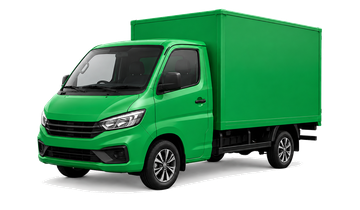
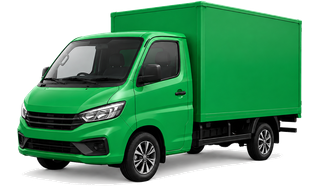
fix(customer-app): toifa rasmlari va karta joylashuvi
Qurilmadagi skrinshotlardan uchta nuqson aniqlandi.

1. standart.png foni SHAFFOF EMAS edi — unda rgb(229,245,235) qotib
   qolgan, bu tanlangan kartaning yashil foniga deyarli teng. Shuning
   uchun tanlangan holatda ko'rinmay, tanlanmaganda oq karta ustida
   yashil to'rtburchak bo'lib qolardi. 129 600 pikseldan atigi 27 tasi
   shaffof edi; endi fon olib tashlandi (91 330 piksel).

2. Mashinalar kichik ko'rinardi: rasmda mazmun kvadrat maydonning
   standartda 46%, komfortda 44% bo'yini egallardi (yuk mashinasida 89%).
   `contain` butun balandlikni 42 dp ga siqadi, mashina esa shuning
   yarmi — ya'ni ~19 dp. Uchalasi ham mazmun chegarasiga qirqilib, bir
   xil nisbatga (~1.73) shaffof chekka bilan keltirildi; endi ular teng
   kattalikda ko'rinadi.

3. Narx kartadan TASHQARIDA qolardi: 77 dp balandlikka 6+42+18+13 = 85 dp
   sig'maydi. Karta 84 dp ga o'tdi, qator balandliklari (`lineHeight`)
   aniq berildi — usiz qurilmaga qarab o'zgarib, mazmun yana chiqib
   ketardi.

Bonus: "Uy"/"Ish" chiplari endi teng enda (`alignItems: stretch`) —
avval chap chekka tishli ko'rinardi.

Rasmlar Pillow'siz, faqat zlib bilan qayta yozildi — foydalanuvchi
muhitiga paket qo'shilmadi.

diff --git a/apps/customer-app/src/CategoryCard.tsx b/apps/customer-app/src/CategoryCard.tsx
@@ -1,5 +1,5 @@
 import { Image, ImageSourcePropType, Text, TouchableOpacity, View } from 'react-native';
-import { C, F, L, SP, elev } from './theme';
+import { C, F, L, elev } from './theme';
 
 /**
  * Toifa kartasi — rasm + nom + boshlang'ich narx (maket: Group 3/9/11).
@@ -35,7 +35,7 @@ export function CategoryCard({
           borderWidth: 1,
           borderColor: selected ? C.primary : C.border,
           backgroundColor: selected ? C.primarySoft : C.bg,
-          paddingTop: 6,
+          paddingTop: 5,
           paddingHorizontal: 4,
           alignItems: 'center',
           // Tanlangan karta bir oz ko'tariladi — soya bilan birga u
@@ -60,13 +60,24 @@ export function CategoryCard({
           resizeMode="contain"
         />
       </View>
+      {/* `lineHeight` ATAYLAB aniq berilgan: usiz qator balandligi qurilmadan
+          qurilmaga o'zgarib, mazmun karta chegarasidan chiqib ketardi. */}
       <Text
         numberOfLines={1}
-        style={{ color: C.text, fontSize: F.body, fontWeight: '700', marginTop: SP.xs / 2 }}
+        style={{
+          color: C.text,
+          fontSize: F.label,
+          lineHeight: 18,
+          fontWeight: '700',
+          marginTop: 1,
+        }}
       >
         {title}
       </Text>
-      <Text numberOfLines={1} style={{ color: C.muted, fontSize: F.tiny, marginTop: 1 }}>
+      <Text
+        numberOfLines={1}
+        style={{ color: C.muted, fontSize: F.tiny, lineHeight: 13 }}
+      >
         {price}
       </Text>
     </TouchableOpacity>

diff --git a/apps/customer-app/src/theme.ts b/apps/customer-app/src/theme.ts
@@ -119,8 +119,12 @@ export const L = {
   /** Pastki panel. Maketda radius chapda 70, o'ngda 87 edi — qiyshiq; tenglandi. */
   sheetRadius: R.xl,
   sheetPad: 12,
-  /** Toifa kartasi — 109x77 dp (327x231). */
-  card: { height: 77, radius: R.card, image: { w: 73, h: 42 } },
+  /**
+   * Toifa kartasi. Maketda 77 dp edi (327x231), lekin unga rasm + nom + narx
+   * SIG'MAYDI: 6+42+18+13 = 85 dp, ya'ni narx kartadan tashqarida qolardi
+   * (qurilmada aynan shunday ko'rindi). 84 dp — mazmunning haqiqiy bo'yi.
+   */
+  card: { height: 84, radius: R.card, image: { w: 76, h: 44 } },
   /** Yo'lovchilar tanlagichi — 208x42 dp (625x126). */
   segment: { height: 42, pad: 4, radius: R.pill },
   /** Asosiy tugma — 268x60 dp (805x181). */

diff --git a/apps/customer-app/src/screens/HomeScreen.tsx b/apps/customer-app/src/screens/HomeScreen.tsx
@@ -699,7 +699,10 @@ export function HomeScreen({
             left: SP.md,
             bottom: floatBottom,
             gap: SP.sm,
-            alignItems: 'flex-start',
+            // `stretch` — ikkala chip kengroq matnga qarab TENG bo'ladi.
+            // `flex-start` da "Uy" va "Ish" har xil enda chiqib, chap chekka
+            // tishli ko'rinardi.
+            alignItems: 'stretch',
           }}
         >
           {(['home', 'work'] as AddressLabel[]).map((label) => {
